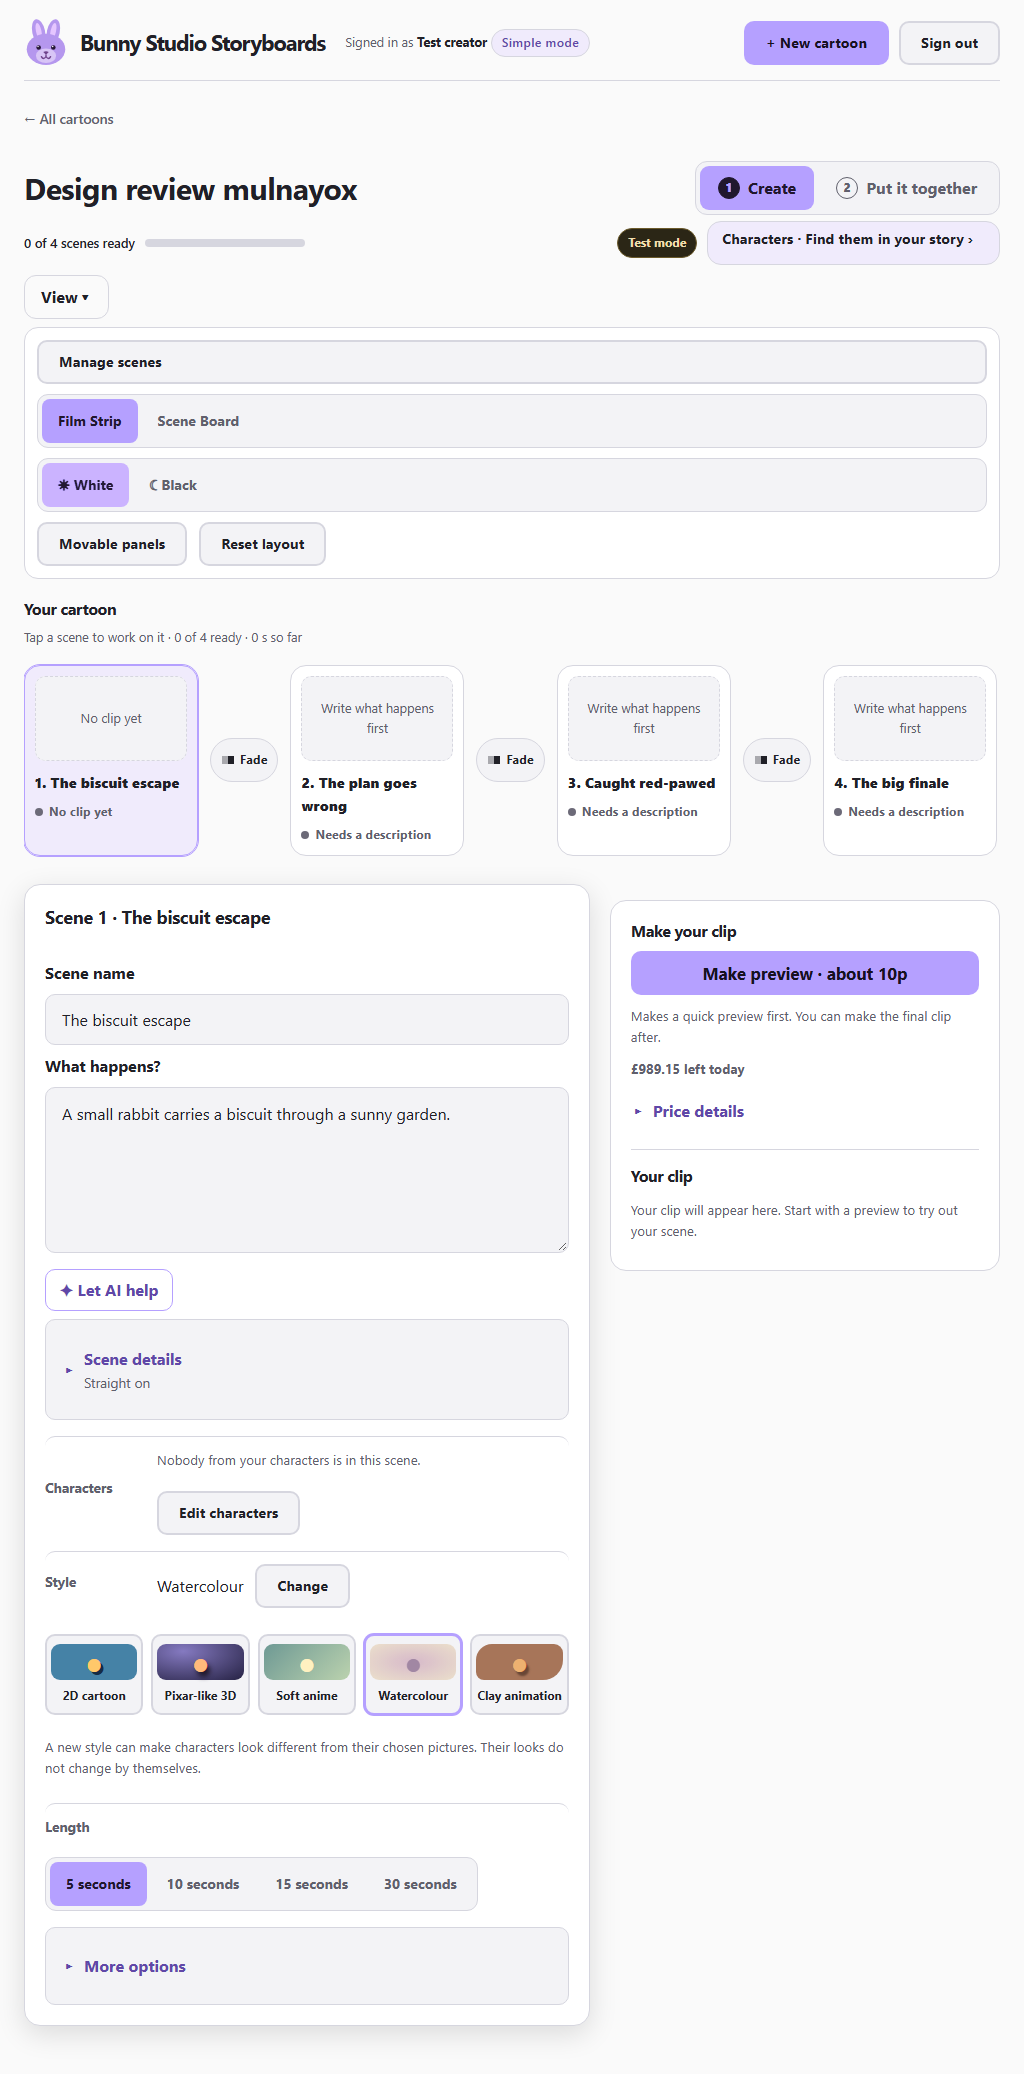
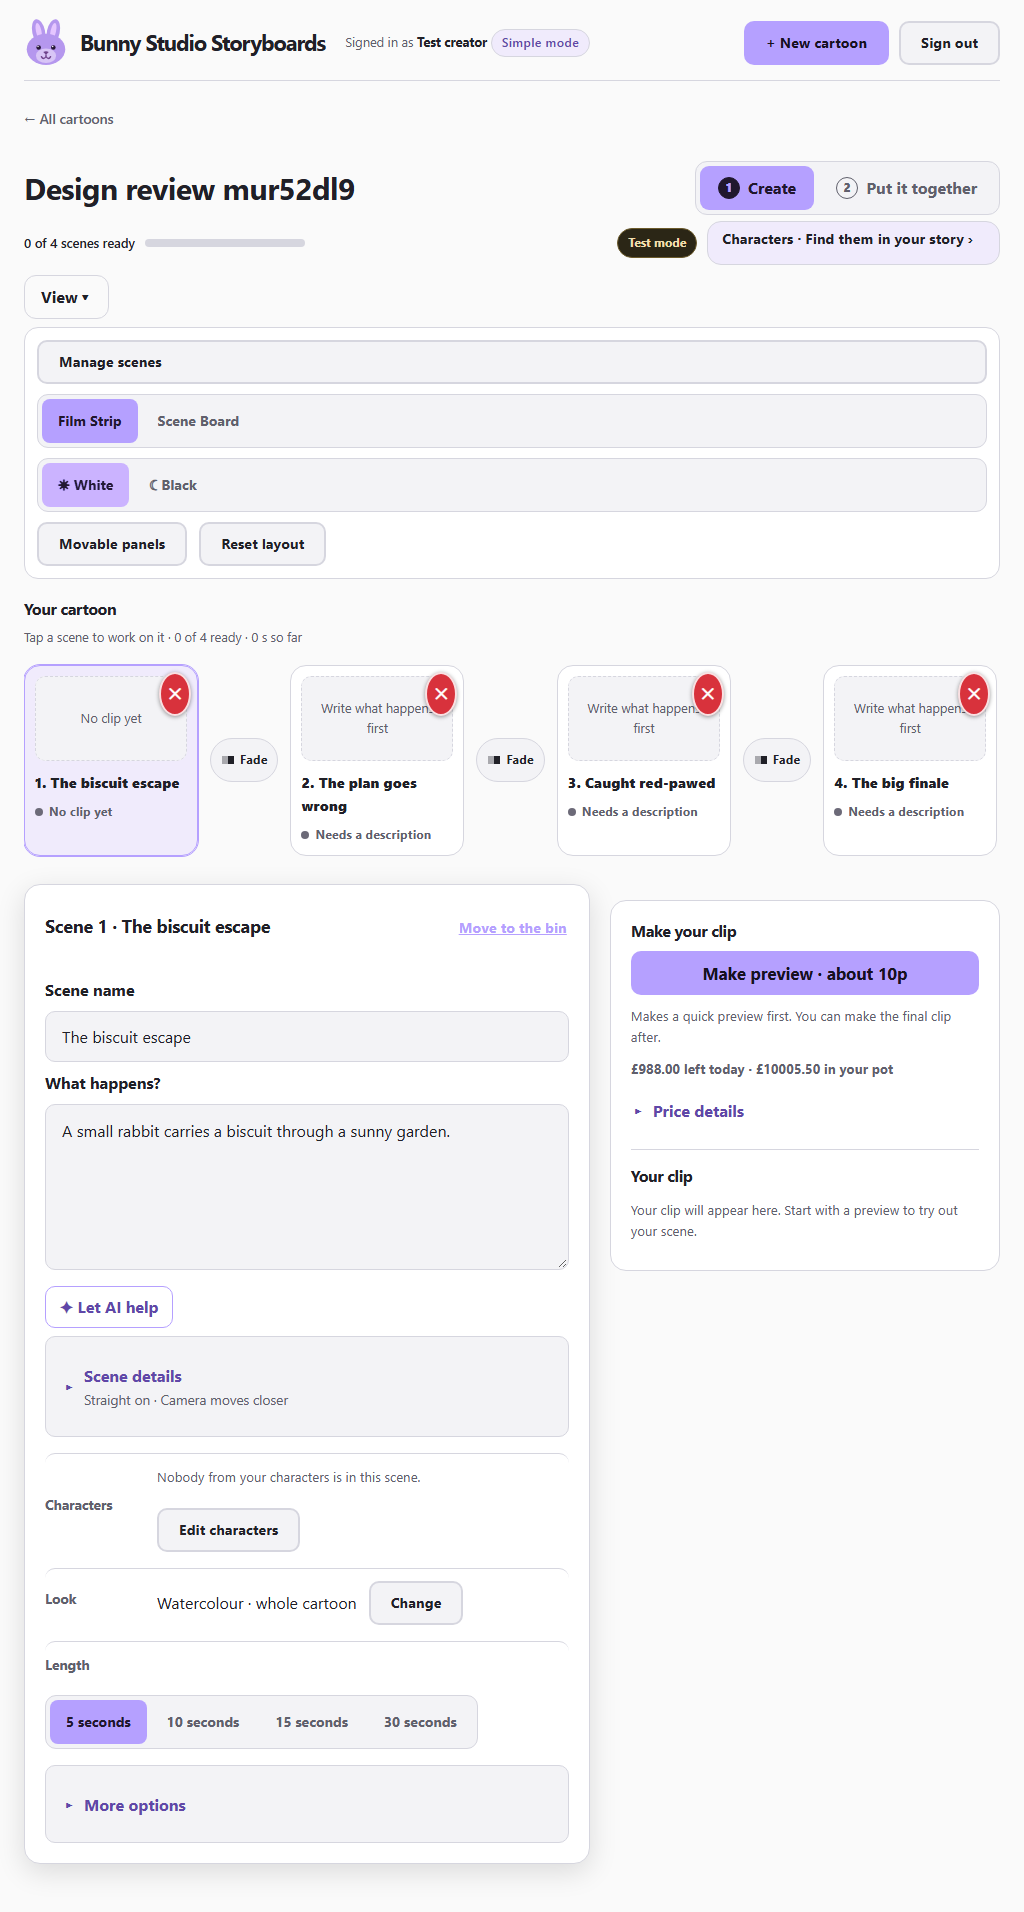
feat(web): red cross on each scene tile moves the scene to the bin

diff --git a/apps/web/src/components/DirectorScenes.tsx b/apps/web/src/components/DirectorScenes.tsx
@@ -7,12 +7,14 @@ import { ProblemBox } from './ProblemBox';
 import { SCENE_STATE_WORDS, sceneState } from '../sceneState';
 
 /** One scene list, shown as either the film strip or the scene board. */
-export function DirectorScenes({ layout, scenes, shots, jobs, assets, selectedId, projectId, timeline, onTimeline, onSelect, onAdd, adding }: {
+export function DirectorScenes({ layout, scenes, shots, jobs, assets, selectedId, projectId, timeline, onTimeline, onSelect, onAdd, onRemove, adding }: {
   layout: string; scenes: Scene[]; shots: Map<string, Shot>; jobs: Job[]; assets: Map<string, Asset>;
   selectedId?: string; projectId: string; timeline: Timeline | null;
   onTimeline: (timeline: Timeline) => void; onSelect: (sceneId: string) => void;
   /** Add a scene: the last tile in the strip, and the last choice in the phone's scene list. */
   onAdd: () => void; adding: boolean;
+  /** The red cross on a tile: the scene goes to the bin (never gone; Manage scenes puts it back). */
+  onRemove: (scene: Scene) => void;
 }) {
   const [join, setJoin] = useState<string | null>(null);
   const [busy, setBusy] = useState(false);
@@ -56,6 +58,8 @@ export function DirectorScenes({ layout, scenes, shots, jobs, assets, selectedId
         const item = timeline?.items.find((item) => item.scene_id === scene.id);
         return <div className="scene-overview-wrap" key={scene.id}>
           <article className={`scene-overview-card${selectedId === scene.id ? ' selected' : ''}`}>
+            <button type="button" className="scene-overview-remove" aria-label={`Move scene ${scene.scene_number}, ${scene.title}, to the bin`} title="Move to the bin"
+              disabled={Boolean(activeJob)} onClick={() => onRemove(scene)}>✕</button>
             <button type="button" className="scene-overview-select" aria-label={`${scene.scene_number} ${scene.title} ${words}`}
               aria-current={selectedId === scene.id ? 'true' : undefined} onClick={() => onSelect(scene.id)}>
               <span className="scene-overview-still">

diff --git a/apps/web/src/styles.css b/apps/web/src/styles.css
@@ -808,6 +808,10 @@ summary:focus-visible { outline: 2px solid var(--accent); outline-offset: 3px; }
 .scene-overview-card.selected { border-color: var(--accent); outline: 1px solid var(--accent); background: var(--selected-surface); }
 .film-strip .scene-overview-wrap { flex: 0 0 auto; }
 .film-strip .scene-overview-card { flex: 0 0 clamp(170px, 17vw, 240px); width: clamp(170px, 17vw, 240px); align-self: stretch; }
+.scene-overview-card { position: relative; }
+.scene-overview-remove { position: absolute; top: 6px; right: 6px; z-index: 1; width: 32px; height: 32px; padding: 0; border: 2px solid rgba(255, 255, 255, .85); border-radius: 50%; background: #d8323c; color: #fff; font-size: 15px; font-weight: 700; line-height: 1; box-shadow: 0 1px 4px rgba(0, 0, 0, .4); }
+.scene-overview-remove:hover, .scene-overview-remove:focus-visible { background: #b7232c; }
+.scene-overview-remove:disabled { opacity: .35; }
 .scene-overview-select { display: flex; flex-direction: column; width: 100%; padding: 10px; gap: 10px; background: transparent; color: var(--ink); text-align: left; border: 0; border-radius: 14px; }
 .scene-overview-still { position: relative; display: block; width: 100%; aspect-ratio: 16 / 9; overflow: hidden; border-radius: 10px; background: var(--control-surface); }
 .scene-overview-empty { display: grid; height: 100%; place-items: center; padding: 12px; border: 1px dashed var(--line); border-radius: 10px; font-size: .8rem; color: var(--ink-soft); text-align: center; font-weight: 400; }

diff --git a/apps/web/src/screens/Director.tsx b/apps/web/src/screens/Director.tsx
@@ -140,6 +140,19 @@ export function Director({ account }: { account: Account }) {
         <DirectorScenes layout={design} scenes={scenes} shots={shots} jobs={jobs} assets={assetsById}
           selectedId={selected?.id} projectId={project.id} timeline={timeline} onTimeline={setTimeline}
           onSelect={(sceneId) => setSearch({ scene: sceneId })} adding={addingScene}
+          onRemove={(scene) => {
+            if (!confirm(`Move scene ${scene.scene_number}, "${scene.title}", to the bin? You can put it back later from Manage scenes.`)) return;
+            setError(null);
+            api.deleteScene(scene.id).then(async () => {
+              // Scene numbers close up behind a binned scene, so reload the list rather than filtering it.
+              const s = await api.listScenes(project.id);
+              setScenes(s.data);
+              if (selected?.id === scene.id) {
+                const next = s.data.find((x) => x.sort_order >= scene.sort_order) ?? s.data[s.data.length - 1];
+                setSearch(next ? { scene: next.id } : {});
+              }
+            }).catch(setError);
+          }}
           onAdd={async () => {
             setAddingScene(true); setError(null);
             try {

diff --git a/apps/web/e2e/director.spec.ts b/apps/web/e2e/director.spec.ts
@@ -187,9 +187,11 @@ test.describe('Director', () => {
     await page.getByLabel('Scene description').fill('A scene that should not be here.');
     await page.getByRole('button', { name: /Make this scene.s clip/ }).click();
     await expect(page.getByRole('heading', { name: 'Scene 2 · Bin me' })).toBeVisible();
+    // The red cross on the tile, and the link in the editor, do the same thing.
     acceptNextConfirm(page);
-    await page.getByRole('button', { name: 'Move to the bin' }).click();
+    await page.getByRole('button', { name: 'Move scene 2, Bin me, to the bin' }).click();
     await expect(page.getByRole('heading', { name: 'Scene 1 · Keep me' })).toBeVisible();
+    await expect(page.getByRole('button', { name: 'Move to the bin' })).toBeVisible();
     await expect(page.getByRole('button', { name: /Bin me/ })).toHaveCount(0);
     // Manage scenes still has it, and can put it back.
     await page.getByText('View', { exact: true }).click();
